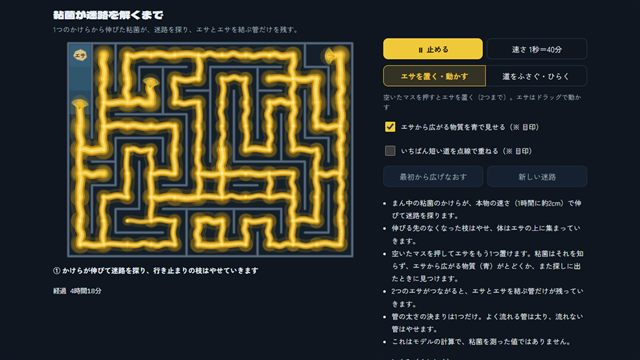
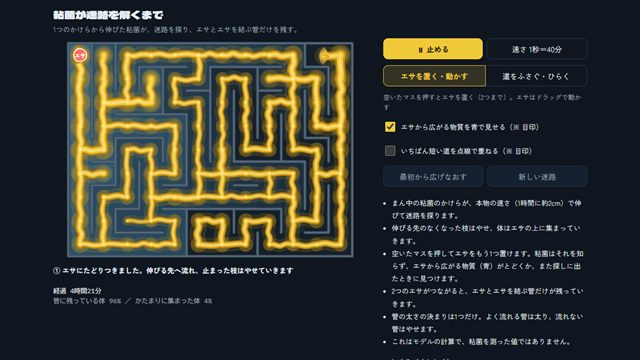
v009-lump 粘菌が迷路を解くまで: 体のかたまりがエサを動かしてもその場に残る、物質は100倍の演出で広がり少しずつ減る、エサは赤い丸の記号に

diff --git a/slime-maze/js/model.js b/slime-maze/js/model.js
@@ -20,6 +20,8 @@ const Model = {
   GROW_MM_H: 20,     // 先端の伸びる速さ（mm/時）。Patino-Ramirez ほか 2019「1時間に数センチ」から 2 cm/時
   GONE: 1e-2,        // これより細くなった管は消えて、その線から体が引きあげる（半径はもとの約3割。流れのない管は約4〜5時間でここまでやせる）
   DIFF_M2_S: 6.7e-10,  // ブドウ糖の水の中での拡散係数（m²/秒。教科書の値。寒天の中ではすこし遅い）
+  DECAY_LEN_MM: 30,  // 物質は少しずつ分解・吸収されて減る（仮定）。広がりと減りがつりあう長さ（エサから 30 mm で約 1/e。これがないと、長い時間で迷路じゅうが同じ濃さになって、向きが分からなくなる）
+  DIFF_BOOST: 100,   // 見やすくするため、物質は本物の100倍の速さで広げる（演出。2026-11-22 ユーザー「伸びる様子を眺めるアプリの本質とは関係ないので、特別にもっと早くていい」）
   C_TH: 0.01,        // 粘菌が気づく濃さ（エサの所を 1 とした割合）。本当の値は分からないので仮定
   CHEM_UP: 1.5, CHEM_DOWN: 0.5,   // 気づいた所では、濃いほうへの線は 1.5 倍の速さで伸び、うすいほうへは 0.5 倍（仮定）
   TRAIL_H: 24,       // 粘液の跡が残る時間（Reid ほか 2012: 一度探した所をさける）。どのくらい残るかは分からないので 1日と仮定
@@ -35,7 +37,8 @@ const Model = {
       cs: [new Float64Array(N), new Float64Array(N)],   // エサごとの、広がる物質の濃さ（エサの所 = 1）
       c: new Float64Array(N),        // 全部のエサの物質の和（絵のため）
       p: new Float64Array(N), pPrev: null,
-      t: 0, tFlow: 0, blocked: false, maxRate: 0, swap: false, start: -1, growing: false, mode: 'front', blob: [0, 0],
+      t: 0, tFlow: 0, blocked: false, maxRate: 0, swap: false, start: -1, growing: false, mode: 'front',
+      lump: new Float64Array(N),   // 点ごとの体のかたまり（管にならずに集まっている体の量。エサの上にできることが多いが、エサを動かしても、かたまりはその場に残る）
     };
   },
 
@@ -50,7 +53,7 @@ const Model = {
     const g = s.g;
     s.D.fill(0); s.Q.fill(0); s.Qs.fill(0); s.fa.fill(0); s.fb.fill(0); s.reached.fill(0); s.arrive.fill(0);
     s.trailT.fill(-1e9); s.c.fill(0); for (const f of s.cs) f.fill(0);
-    s.pPrev = null; s.t = 0; s.tFlow = 0; s.blocked = false; s.maxRate = 0; s.blob = [0, 0]; s.mode = 'front';
+    s.pPrev = null; s.t = 0; s.tFlow = 0; s.blocked = false; s.maxRate = 0; s.lump.fill(0); s.mode = 'front';
     for (let e = 0; e < g.nE; e++) s.vk[e] = 0.75 + 0.5 * s.rng();
     s.start = start; s.reached[start] = 1; s.growing = true;
   },
@@ -59,7 +62,7 @@ const Model = {
   //   線（通路）の網の上の有限体積の形: 点 i の体積 V_i = Σ 線の長さ/2（断面は共通なので省く）、線の流束 = Dc (c_b − c_a) / 長さ
   //   → 線の長さがそろっていない地図（道路）でも物質の量が保たれる。安定のため、必要なら1回を細かく分けて進める
   diffuse(s, dh) {
-    const g = s.g, Dc = Model.DIFF_M2_S * 3600 * 1e6;   // mm²/時
+    const g = s.g, Dc = Model.DIFF_M2_S * 3600 * 1e6 * Model.DIFF_BOOST;   // mm²/時（演出で速くしている）
     if (!s.dvol || s.dvolOpen !== Model.openSig(g)) {
       s.dvol = new Float64Array(g.N); let kmax = 0;
       const ksum = new Float64Array(g.N);
@@ -78,7 +81,8 @@ const Model = {
           const a = g.ea[e], b = g.eb[e], f = Dc * (c[b] - c[a]) / g.len[e] * dt;
           d[a] += f; d[b] -= f;
         }
-        for (let i = 0; i < g.N; i++) if (s.dvol[i] > 0) c[i] += d[i] / s.dvol[i];
+        const decay = Math.exp(-Dc / (Model.DECAY_LEN_MM * Model.DECAY_LEN_MM) * dt);   // 減る速さ λ = Dc / 長さ²
+        for (let i = 0; i < g.N; i++) if (s.dvol[i] > 0) c[i] = (c[i] + d[i] / s.dvol[i]) * decay;
         c[food] = 1;
       }
       for (let i = 0; i < g.N; i++) s.c[i] += c[i];
@@ -130,14 +134,20 @@ const Model = {
     for (let e = 0; e < g.nE; e++) if (s.D[e] > 0 || s.fa[e] > 0 || s.fb[e] > 0) s.trailT[e] = s.t;   // いまいる線に粘液が残る
     s.growing = any;
   },
-  toBlob(s, v) {   // 体をエサの上のかたまりへもどす（着いているエサが2つなら半分ずつ）
-    const ins = s.foods.map((f, i) => i).filter(i => s.reached[s.foods[i]]);
-    for (const i of ins) s.blob[i] = (s.blob[i] || 0) + v / ins.length;
+  // 体をかたまりへもどす: 粘菌がいるエサの上（2つなら半分ずつ）。エサの上にいなければ、いまあるかたまりへ（量に合わせて）
+  toBlob(s, v) {
+    const ins = s.foods.filter(f => s.reached[f]);
+    if (ins.length) { for (const f of ins) s.lump[f] += v / ins.length; return; }
+    const tot = Model.lumpTotal(s);
+    if (tot > 0) for (let i = 0; i < s.g.N; i++) if (s.lump[i] > 0) s.lump[i] += v * s.lump[i] / tot;
   },
+  // 伸びた管の体は、かたまりから出す（量に合わせて）
   takeBlob(s, v) {
-    const ins = s.foods.map((f, i) => i).filter(i => (s.blob[i] || 0) > 0);
-    for (const i of ins) s.blob[i] = Math.max(0, s.blob[i] - v / ins.length);
+    const tot = Model.lumpTotal(s); if (!(tot > 0)) return;
+    const k = Math.max(0, 1 - v / tot);
+    for (let i = 0; i < s.g.N; i++) s.lump[i] *= k;
   },
+  lumpTotal(s) { let a = 0; for (let i = 0; i < s.g.N; i++) a += s.lump[i]; return a; },
 
   // とても細くなった管は消え、体はその線から引きあげる。管も伸びかけもなくなった点には、もう粘菌はいない（エサの上のかたまりは残る）
   retract(s) {
@@ -146,7 +156,7 @@ const Model = {
     if (!gone) return;
     for (let c = 0; c < g.N; c++) {
       if (!s.reached[c]) continue;
-      let keep = s.foods.some((f, i) => f === c && (s.blob[i] || 0) > 0.05);
+      let keep = s.lump[c] > 0.05;   // かたまりがある点には、粘菌がいる
       for (const e of g.adj[c]) {
         if (keep) break;
         if (s.D[e] > 0 || (g.ea[e] === c && s.fa[e] > 0) || (g.eb[e] === c && s.fb[e] > 0)) keep = true;
@@ -186,7 +196,7 @@ const Model = {
     for (let i = 0; i < n; i++) { z[i] = r[i] / diag[i]; pv[i] = z[i]; }
     let rz = 0; for (let i = 0; i < n; i++) rz += r[i] * z[i];
     let r0 = 0; for (let i = 0; i < n; i++) r0 += rhs[i] * rhs[i] / diag[i];
-    for (let it = 0; it < 6 * n + 50 && rz > 1e-24 * r0; it++) {
+    for (let it = 0; it < 20 * n + 50 && rz > 1e-24 * r0; it++) {
       mul(pv, Ap); let pAp = 0; for (let i = 0; i < n; i++) pAp += pv[i] * Ap[i];
       if (!(pAp > 0)) break;
       const al = rz / pAp;
@@ -238,7 +248,9 @@ const Model = {
       if (!ok) { s.mode = 'none'; s.Q.fill(0); }   // つながっていなければ流れはない（管はやせていく）
     } else {
       s.blocked = false;
-      const fr = Model.fronts(s), src = foodsIn.length ? foodsIn[0] : s.start;
+      const fr = Model.fronts(s);
+      let src = foodsIn.length ? foodsIn[0] : s.start;   // 流れの入口: エサ。エサの上にいなければ、いちばん大きいかたまり
+      if (!foodsIn.length) { let best = 0; for (let i = 0; i < g.N; i++) if (s.lump[i] > best) { best = s.lump[i]; src = i; } }
       if (fr.length && Model.solve(s, src, fr, Model.I0)) { s.mode = 'front'; if (s.swap) for (let e = 0; e < g.nE; e++) s.Q[e] = -s.Q[e]; }
       else { s.mode = 'none'; s.Q.fill(0); }
     }
@@ -252,10 +264,10 @@ const Model = {
       s.D[e] = d1;
       s.Qs[e] += (Math.abs(s.Q[e]) - s.Qs[e]) * 0.1;    // 粒の速さ用に、ならした流量（表示だけ）
     }
-    // やせた管の体は、エサの上のかたまりへ（太った分はかたまりから）。エサに着く前は先端へ行ったとして数えない
-    if (foodsIn.length) {
+    // やせた管の体はかたまりへ（太った分はかたまりから）。エサにもかたまりにも着く前は、先端へ行ったとして数えない
+    if (foodsIn.length || Model.lumpTotal(s) > 0) {
       const dV = Model.volume(s) - V0;
-      s.foods.forEach((f, i) => { if (s.reached[f]) s.blob[i] = Math.max(0, (s.blob[i] || 0) - dV / foodsIn.length); });
+      if (dV < 0) Model.toBlob(s, -dV); else Model.takeBlob(s, dV);
     }
     s.maxRate = maxRate;
     Model.retract(s);

diff --git a/slime-maze/index.html b/slime-maze/index.html
@@ -57,7 +57,7 @@
         <p>迷路の実験では、まず迷路のあちこちに粘菌のかけらを置き、つながって迷路いっぱいになってから、入口と出口にエサを置きます。すると行き止まりや遠回りの管がやせて消え、2つのエサをいちばん短い道で結ぶ管が残りました（中垣ほか 2000）。迷路を「探して」解くのではなく、全部の道を同時に使ってから、使われない道を捨てています。</p>
         <p>粘菌は1時間に数センチの速さで伸びます（Patino-Ramirez ほか 2019）。管は数時間でこわれたり作り直されたりします（Tero ほか 2007）。</p>
         <p>エサにつながっていない、先の開いた管は消えやすく、体のほとんどはエサの上に集まります（Tero ほか 2007 にまとめられた観察）。伸びている先端の膜は、上流から流れを押しこまれてふくらみます（Le Verge-Serandour・Alim）。</p>
-        <p>粘菌は、自分が通ったあとの粘液をさけて、まだ探していない所へ伸びます（Reid ほか 2012）。ブドウ糖などの物質には、ある濃さ以上で寄っていきます（Ueda ほか 1975）。エサから出た物質は、寒天や水の中をゆっくり広がります（ブドウ糖の拡散係数で計算。2cm 先にとどくのに半日ほど）。そのため遠くのエサは、においより先に、探しに出て見つけることが多くなります。</p>
+        <p>粘菌は、自分が通ったあとの粘液をさけて、まだ探していない所へ伸びます（Reid ほか 2012）。ブドウ糖などの物質には、ある濃さ以上で寄っていきます（Ueda ほか 1975）。本物の物質は、寒天や水の中をとてもゆっくり広がります（ブドウ糖なら、2cm 先に少しとどくのに半日ほど）。このアプリでは、見やすくするため100倍の速さで広げています。</p>
         <p>管の太り・やせは、Tero・小林・中垣（2007）のモデルで計算しています。流れの入口と出口は次のように決めています。</p>
         <ul>
           <li>エサが1つで、まだ伸びている先端があるとき: エサ（着く前は、もとのかけら）から、伸びている先端へ等しく分かれて流れます（先端を出口にする方法は Almeida 2021 と同じ）。行き止まりで止まった枝には流れがなくなり、やせていきます。</li>
@@ -83,7 +83,7 @@
           <li>1マスを5mmと仮定しています（迷路は横6cm・たて4.5cm）。</li>
           <li>粘菌が気づく物質の濃さ（エサの所の1%）、気づいたときに濃いほうへ1.5倍・うすいほうへ0.5倍の速さで伸びること、粘液の跡が1日残ることは、本当の値が分からないので決めた仮定です。物質の広がり方は水の中のブドウ糖の値で、寒天ではすこし遅くなります。</li>
           <li>2つのエサにつながって食べているあいだは、前に探した所へはもう探しに出ないとしています（栄養のある所では探しに出るのがおそい、という観察 Patino-Ramirez ほか 2019 からの推定。本物は、少しずつ探しに出ることもあります）。</li>
-          <li>エサ（オートミール）から出る物質はブドウ糖だけではありません。ここでは代表としてブドウ糖の広がり方を使っています。広がるのがとても遅いので、遠くのエサは物質より先に、探しに出て見つかることが多くなります。</li>
+          <li>エサ（オートミール）から出る物質はブドウ糖だけではありません。ここでは代表としてブドウ糖の広がり方を使っています。本物は広がるのがとても遅いので、このアプリでは100倍の速さにしています（演出）。物質は少しずつ分解されて減り、エサから3cmほどで薄くなるとしています（仮定）。</li>
           <li>「先端へ等しく分かれて流れる」「やせた分の体がエサの上に集まる」は、上の観察と研究に合わせた推定です。体の量は管の断面（半径の2乗）× 長さで数えています。</li>
           <li>管の太り・やせの式の時間の単位を1時間としています（管が数時間で組みかわる、という観察から決めた仮定）。</li>
           <li>管が消える太さ（半径がもとの約3割）は、見やすさと「数時間で組みかわる」に合わせて決めた値です。道をふさぐと、残っている体からまた伸びて、別の道を探します。</li>
@@ -113,7 +113,7 @@
 
 <script src="js/maze.js?v=1"></script>
 <script src="js/graph.js?v=2"></script>
-<script src="js/model.js?v=11"></script>
-<script src="js/draw.js?v=10"></script>
-<script src="js/ui.js?v=10"></script>
+<script src="js/model.js?v=16"></script>
+<script src="js/draw.js?v=14"></script>
+<script src="js/ui.js?v=11"></script>
 <script src="js/main.js?v=5"></script>

diff --git a/slime-maze/js/draw.js b/slime-maze/js/draw.js
@@ -3,14 +3,15 @@
 //  - 管: 少し暗い黄土色の壁 ＋ 明るい黄色の中身 ＋ 中を流れる明るい芯。太さは半径 ∝ D^(1/4)（ポアズイユの D は半径の4乗）
 //  - 迷路の通路の中の管は、まっすぐでなく少しうねる（線ごとに決まった形。道路の地図では道どおりに描く）
 //  - 伸びている先端: 扇のように広がる薄い膜（ファン）＋ 中に細い筋（レビュー: 先端は薄い原形質のシートが流れでふくらむ）
-//  - エサの上: 集まった体のかたまり（量に合わせた大きさ、ふちは少しでこぼこ）
+//  - 体のかたまり: 管にならずに集まった体（量に合わせた大きさ、ふちは少しでこぼこ）。エサは記号（赤い丸）
 'use strict';
 
 const Draw = {
   C: {
     bg: '#0f1620', floor: '#151f29', wall: '#3d4d5e', wallTop: '#5b6f83',
     halo: 'rgba(214,160,20,0.16)', outer: '#b9820f', inner: '#f2c93a', core: 'rgba(255,241,176,0.55)', grain: 'rgba(255,248,214,0.9)',
-    food: '#d8c08c', foodDark: '#a98b55', foodInk: '#3a2410', mark: '#e8f0f4', sel: '#7fd3ff', chem: '95,180,230',
+    food: '#ff6f5c', foodRing: '#ffffff', foodInk: '#ffffff',   // エサは記号（粘菌の黄色・物質の青とまぎれない色）
+    mark: '#e8f0f4', sel: '#7fd3ff', chem: '95,180,230',
   },
 
   // 地図を画面に合わせて置く。P(i) で点の画面の位置、cs は「よくある線の長さ」の画面の長さ
@@ -71,8 +72,8 @@ const Draw = {
     // エサから広がる物質（※ 目印。色の濃さは対数。粘菌が気づく濃さより上は少し濃く）
     if (ui.showChem) {
       for (let i = 0; i < g.N; i++) {
-        const c = s.c[i]; if (c < 1e-4) continue;
-        const a = Math.min(1, Math.log10(c / 1e-4) / 4) * (c >= Model.C_TH ? 0.42 : 0.2);
+        const c = s.c[i]; if (c < 1e-3) continue;
+        const a = 0.05 + 0.4 * Math.min(1, Math.log10(c / 1e-3) / 3);   // 0.1% で薄く、気づく 1% で中くらい、エサの近くほど濃い
         const [x, y] = Draw.P(L, g, i);
         g2.fillStyle = `rgba(${C.chem},${a})`;
         if (g.maze) g2.fillRect(x - cs / 2, y - cs / 2, cs, cs); else { g2.beginPath(); g2.arc(x, y, cs * 0.5, 0, 6.283); g2.fill(); }
@@ -155,14 +156,17 @@ const Draw = {
       g2.stroke(); g2.setLineDash([]);
     }
 
-    // エサ（オートミールのかけら）と、その上に集まった体（エサを包むように半透明で重ねる。面積 ∝ 量）
+    // 集まった体のかたまり（エサの上なら、エサを包むように半透明で重ねる。エサを動かしても、かたまりはその場に残る。面積 ∝ 量）
+    for (let i = 0; i < g.N; i++) {
+      const bl = s.lump[i]; if (!(bl >= 0.05) || !s.reached[i]) continue;
+      const [x, y] = Draw.P(L, g, i), onFood = s.foods.includes(i);
+      g2.globalAlpha = onFood ? 0.82 : 1; Draw.blob(g2, x, y, cs * Math.min(0.62, 0.26 + 0.06 * Math.sqrt(bl)), Draw.hash(i + 11)); g2.globalAlpha = 1;
+    }
+    // エサ（記号。かたまりの上に描いて、いつも見えるように）と、選んでいる印
     s.foods.forEach((f, i) => {
-      const [x, y] = ui.drag && ui.drag.i === i ? Draw.P(L, g, ui.drag.c) : Draw.P(L, g, f), r = cs * 0.3;
-      Draw.oat(g2, x, y, r, Draw.hash(i * 13 + 5));
-      const bl = s.blob[i] || 0;
-      if (s.reached[f] && bl >= 0.05 && !(ui.drag && ui.drag.i === i)) {
-        g2.globalAlpha = 0.82; Draw.blob(g2, x, y, cs * Math.min(0.62, 0.26 + 0.06 * Math.sqrt(bl)), Draw.hash(f + 11)); g2.globalAlpha = 1;
-      }
+      const [x, y] = ui.drag && ui.drag.i === i ? Draw.P(L, g, ui.drag.c) : Draw.P(L, g, f), r = cs * 0.27;
+      g2.fillStyle = C.food; g2.strokeStyle = C.foodRing; g2.lineWidth = Math.max(1.5, cs * 0.04);
+      g2.beginPath(); g2.arc(x, y, r, 0, 6.283); g2.fill(); g2.stroke();
       if (ui.sel === i) { g2.strokeStyle = C.sel; g2.lineWidth = 3; g2.beginPath(); g2.arc(x, y, r * 1.35, 0, 6.283); g2.stroke(); }
       g2.fillStyle = C.foodInk; g2.font = `700 ${Math.max(9, Math.round(cs * 0.24))}px 'Zen Kaku Gothic New', sans-serif`;
       g2.textAlign = 'center'; g2.textBaseline = 'middle'; g2.fillText('エサ', x, y + 1);
@@ -200,14 +204,6 @@ const Draw = {
     const gr = g2.createRadialGradient(x - R * 0.2, y - R * 0.2, 0, x, y, R);
     gr.addColorStop(0, '#ffe680'); gr.addColorStop(1, C.inner);
     g2.fillStyle = gr; pathB(0.82); g2.fill();
-  },
-
-  // オートミールのかけら（ふちが少し角ばった、明るい黄土色の板）
-  oat(g2, x, y, r, h) {
-    const C = Draw.C, n = 7;
-    g2.beginPath();
-    for (let i = 0; i <= n; i++) { const a = i / n * 6.283 + (h % 10) * 0.1, rr = r * (0.85 + ((h >> (i * 2)) % 4) * 0.06); i ? g2.lineTo(x + Math.cos(a) * rr, y + Math.sin(a) * rr * 0.85) : g2.moveTo(x + Math.cos(a) * rr, y + Math.sin(a) * rr * 0.85); }
-    g2.closePath(); g2.fillStyle = C.food; g2.fill(); g2.strokeStyle = C.foodDark; g2.lineWidth = 1.2; g2.stroke();
   },
 
   // 迷路の壁

diff --git a/slime-maze/js/ui.js b/slime-maze/js/ui.js
@@ -15,7 +15,9 @@ const UI = {
     let phase;
     if (s.blocked) phase = 'エサとエサのあいだに通れる道がありません。壁をひらいてください';
     else if (one && s.growing) phase = s.reached[s.foods[0]] ? '① エサにたどりつきました。伸びる先へ流れ、止まった枝はやせていきます' : '① かけらが伸びて迷路を探り、行き止まりの枝はやせていきます';
-    else if (one) phase = Model.volume(s) > 0.5 ? '② 伸びる先がなくなり、体がエサの上に集まっていきます' : '② 体がエサの上に集まりました。粘液の跡がうすれると（1日と仮定）また探しに出ます';
+    else if (one) phase = Model.volume(s) > 0.5 ? (s.reached[s.foods[0]] ? '② 伸びる先がなくなり、体がエサの上に集まっていきます' : '② 伸びる先がなくなり、体がかたまりに集まっていきます')
+      : s.reached[s.foods[0]] ? '② 体がエサの上に集まりました。粘液の跡がうすれると（1日と仮定）また探しに出ます'
+      : '② 体はかたまりになって、その場にとどまっています。粘液の跡がうすれると（1日と仮定）探しに出ます';
     else if (!flowing) {
       const k = s.foods.findIndex(f => !s.reached[f]);
       let sense = false; for (let i = 0; k >= 0 && i < s.g.N; i++) if (s.reached[i] && s.cs[k][i] >= Model.C_TH) { sense = true; break; }
@@ -31,9 +33,9 @@ const UI = {
       const len = Model.tubeLength(s), spLen = S.ui.sp ? S.ui.sp.len : null, cm = v => (v / 10).toFixed(1);
       nums = `管の長さ ${cm(len)} cm ／ いちばん短い道 ${spLen != null ? cm(spLen) : '—'} cm`;
       if (settled && spLen != null && Math.abs(len - spLen) < 0.02 * spLen) good = 'いちばん短い道だけが残りました';
-    } else if (one && s.reached[s.foods[0]]) {
-      const V = Model.volume(s), b = s.blob[0] || 0;
-      nums = `管に残っている体 ${Math.round(100 * V / Math.max(1e-9, V + b))}% ／ エサの上に集まった体 ${Math.round(100 * b / Math.max(1e-9, V + b))}%`;
+    } else if (one && (s.reached[s.foods[0]] || Model.lumpTotal(s) > 0)) {
+      const V = Model.volume(s), b = Model.lumpTotal(s);
+      nums = `管に残っている体 ${Math.round(100 * V / Math.max(1e-9, V + b))}% ／ かたまりに集まった体 ${Math.round(100 * b / Math.max(1e-9, V + b))}%`;
     }
     const clock = `経過 ${UI.clock(s.t)}`;
     const key = phase + nums + good + clock + S.run + S.speedI + S.mode;

diff --git a/slime-maze/launcher.html b/slime-maze/launcher.html
@@ -41,7 +41,7 @@ td a{color:var(--ink)}
   </section>
   <section>
     <h2>すべてのバックアップ</h2>
-    <table><tr><td>v008-forage</td><td><a href="index.html">物質の拡散と粘液の跡でエサを見つける・点と線の地図・リアルな見た目（最新版）</a></td><td>2026-11-22</td></tr><tr><td>v007-regrow</td><td>細い管は消え、エサを置くと体から伸びなおす（Git: 6d4a4c9）</td><td>2026-11-22</td></tr><tr><td>v006-one-food-flow</td><td>エサ1つでも管が変わる（Git: 66eb310）</td><td>2026-11-22</td></tr><tr><td>v005-real-time</td><td>エサ1つから・止まらない・本物の時間で伸びる（Git: a2343dc）</td><td>2026-11-22</td></tr><tr><td>v004-one-piece</td><td>まん中の1つのかけらから広がる（Git: 62cea1f）</td><td>2026-11-22</td></tr><tr><td>v003-pieces</td><td>かけら6個から広がり、埋まってからエサ（Git: e40b787）</td><td>2026-11-22</td></tr><tr><td>v002-solver</td><td>段階A: 迷路と Physarum ソルバー（Git: dd3fb46）</td><td>2026-11-22</td></tr><tr><td>v001-start</td><td><a href="versions/v001-start/index.html">雛形（new-app.ps1）</a></td><td>2026-11-22</td></tr></table>
+    <table><tr><td>v009-lump</td><td><a href="index.html">体のかたまりがその場に残る・物質は速く広がり少しずつ減る・エサは記号（最新版）</a></td><td>2026-11-22</td></tr><tr><td>v008-forage</td><td>物質の拡散と粘液の跡・点と線の地図・リアルな見た目（Git: 4086d84）</td><td>2026-11-22</td></tr><tr><td>v007-regrow</td><td>細い管は消え、エサを置くと体から伸びなおす（Git: 6d4a4c9）</td><td>2026-11-22</td></tr><tr><td>v006-one-food-flow</td><td>エサ1つでも管が変わる（Git: 66eb310）</td><td>2026-11-22</td></tr><tr><td>v005-real-time</td><td>エサ1つから・止まらない・本物の時間で伸びる（Git: a2343dc）</td><td>2026-11-22</td></tr><tr><td>v004-one-piece</td><td>まん中の1つのかけらから広がる（Git: 62cea1f）</td><td>2026-11-22</td></tr><tr><td>v003-pieces</td><td>かけら6個から広がり、埋まってからエサ（Git: e40b787）</td><td>2026-11-22</td></tr><tr><td>v002-solver</td><td>段階A: 迷路と Physarum ソルバー（Git: dd3fb46）</td><td>2026-11-22</td></tr><tr><td>v001-start</td><td><a href="versions/v001-start/index.html">雛形（new-app.ps1）</a></td><td>2026-11-22</td></tr></table>
   </section>
 </main>
 </body>

diff --git a/slime-maze/tools/verify-one.js b/slime-maze/tools/verify-one.js
@@ -22,8 +22,8 @@ for (let seed = 1; seed <= 6; seed++) {
     if (tFull >= 0 && s.t > tFull + 10) break;
   }
   let alive = 0; for (let e = 0; e < g.nE; e++) if (Model.has(s, e)) alive++;
-  say(tFull > 0 && thinDuring > 0 && alive === 0 && s.blob[0] > 20,
-    `A seed ${seed}: 埋まるまで ${tFull.toFixed(1)} h、伸びるあいだに細い管 ${thinDuring > 0 ? 'あり' : 'なし'}、10時間後に残った管 ${alive}本、エサの上 ${s.blob[0].toFixed(1)}`);
+  say(tFull > 0 && thinDuring > 0 && alive === 0 && s.lump[0] > 20,
+    `A seed ${seed}: 埋まるまで ${tFull.toFixed(1)} h、伸びるあいだに細い管 ${thinDuring > 0 ? 'あり' : 'なし'}、10時間後に残った管 ${alive}本、エサの上 ${s.lump[0].toFixed(1)}`);
 }
 
 for (let seed = 1; seed <= 6; seed++) {
@@ -42,7 +42,7 @@ for (let seed = 1; seed <= 6; seed++) {
 { // C: 1本の線の列（まっすぐな通路）で、4マス先が 1% になる時間
   const m = Maze.make(W, 1, 1), g = Graph.fromMaze(m, CELL), s = Model.create(g, [0], 1);
   let t = 0; while (s.cs[0][4] < Model.C_TH && t < 200) { Model.diffuse(s, Model.DT); t += Model.DT; }
-  const Dc = Model.DIFF_M2_S * 3600 * 1e6, x = 4 * CELL, est = x * x / (13.2 * Dc);   // c = erfc(x / 2√(Dt)) = 0.01 → t = x² / (4·1.82² Dc)
-  say(t > est * 0.67 && t < est * 1.5, `C 物質が 20 mm 先で 1% になるまで ${t.toFixed(1)} h（式の見積もり ${est.toFixed(1)} h。マス目の計算なので 1.5 倍以内なら可）`);
+  const Dc = Model.DIFF_M2_S * 3600 * 1e6 * Model.DIFF_BOOST, x = 4 * CELL, est = x * x / (13.2 * Dc);   // c = erfc(x / 2√(Dt)) = 0.01 → t = x² / (4·1.82² Dc)
+  say(t > est * 0.67 && t < est * 1.5, `C 物質が 20 mm 先で 1% になるまで ${t.toFixed(2)} h（${Model.DIFF_BOOST}倍の演出つき）（式の見積もり ${est.toFixed(2)} h。マス目の計算なので 1.5 倍以内なら可）`);
 }
 process.exit(ng ? 1 : 0);

diff --git a/slime-maze/DEVNOTES.md b/slime-maze/DEVNOTES.md
@@ -1,7 +1,7 @@
 # 粘菌が迷路を解くまで 開発メモ
 
 ## 別セッションで続けるとき（まずここ）
-- いまの状態: v008-forage（段階A、動く試作）。保管庫（archive.html）に掲載。入口には載せない（RULES 8.1）。push はまだ。
+- いまの状態: v009-lump（段階A、動く試作）。保管庫（archive.html）に掲載。入口には載せない（RULES 8.1）。push はまだ。
 - 次にやること: ユーザーに見た目と、物質・粘液の跡の動きを確かめてもらう → 道路の地図（下の「点と線の地図」）か段階B（管に寄るズーム・μ のつまみ）。動くサムネイル（make-motion-thumbs.ps1 -Apps slime-maze）はまだ撮っていない。
 - 読む順: PLAN.md → このファイルの「ファイル構成」「しくみ」→ 関係するファイルだけ。
 - 動かし方: サーバー apps（.claude/launch.json）で http://localhost:8765/slime-maze/ 。デバッグ用の窓口 `window.__slma`（`simRun(秒)` … 描かずに進める、`restart()`・`newMaze(種)`・`addFood(点)`、`S`、`Model`・`Maze`）、エラーは `window.__slmaErr`。
@@ -38,6 +38,9 @@
 - 伸びる（`grow`）: 粘菌がいる点から、開いた線を連続して伸びる。速さ 2 cm/時（Patino-Ramirez ほか 2019）。線ごとに ±25% のばらつき（演出）。両はしから伸びた割合 fa + fb が 1 で管になり、はじめの D は [0.5, 1.0]。伸びた管の体はエサの上のかたまりから出す（`takeBlob`）。
 - 粘液の跡（`trailT`・`trail`）: 粘菌がいる線に時刻を記録し、`TRAIL_H`（24時間、仮定）のあいだ、まだ伸びはじめていない線へは出ていかない（Reid ほか 2012）。2つのエサにつながって食べているあいだ（`flowing`）は、跡がうすれても前に探した線へは出ていかない（Patino-Ramirez ほか 2019 の「栄養のある所では探しに出るのがおそい」からの推定。これがないと、探しに出た管が生えては消えをくり返し、落ち着かない）。壁をひらいた線は跡なし。
 - 物質（`cs[k]`・`diffuse`）: エサごとに、エサの所を 1 として開いた線を拡散（ブドウ糖の 6.7e-10 m²/s。線の網の有限体積の形: 点の体積 Σ長さ/2、流束 Dc Δc/長さ）。エサを置く・動かすとそのエサの物質は 0 から（`resetField`）。粘菌はまだ着いていないエサの物質が `C_TH`（1%、仮定）以上の所で気づき、濃いほうへの線は 1.5 倍、うすいほうへは 0.5 倍の速さ（仮定）。濃いほうへなら粘液の跡があっても伸びる（向こうにもう粘菌がいれば引きよせない）。拡散はとても遅い（20 mm 先で 1% まで約 10時間）ので、遠くのエサはまず、跡がうすれて探しに出たときに見つかる。エサを置いたことを合図に探しはじめる形（v007）はやめた（2026-11-22 ユーザー「エサを置いた瞬間に伸び始めるのは現実も一緒？」→ 1・2 を選んだ）。
+- 体のかたまり（`s.lump[点]`、2026-11-22 ユーザー「エサを動かすと粘菌が一切見えなくなる。塊になってとどまっているならそう魅せて」）: やせた管の体は、粘菌がいるエサの上へ（いなければ、いまあるかたまりへ）。かたまりはエサから切りはなした点ごとの量で、エサを動かしてもその場に残る（`toBlob`・`takeBlob`・`lumpTotal`）。かたまりのある点には粘菌がいる（`retract`）。エサの上にいないときの流れの入口は、いちばん大きいかたまり。
+- 物質の演出（2026-11-22 ユーザー「エサから広がる物質は特別にもっと早くていい。伸びる様子を眺めるアプリの本質とは関係ないので」）: `DIFF_BOOST` = 100 倍。さらに少しずつ減る（`DECAY_LEN_MM` = 30 mm、λ = Dc/長さ²、仮定）。減りがないと、長い時間で迷路じゅうが同じ濃さになり、向きが分からなくなった。
+- エサは赤い丸の記号（2026-11-22 ユーザー「エサと粘菌の色はかえたほうがいい」「エサは記号でいい」「リアルにしたいのは粘菌のほう」）。
 - 流れ方は3とおり（`s.mode`、`Model.step`）:
   - `front`: エサが1つ以下で、伸びてよい先端がある → 入口（エサ。着く前はもとのかけら）から先端の点（`fronts`）へ I0 を等しく分けて流す（Almeida 2021 の3.6.1。先端の膜が流れでふくらむ: Le Verge-Serandour & Alim）。行き止まりで止まった枝はやせる。
   - `none`: 伸びる先がなく、エサも1つ → 流れなし、管はすべて e^(−t) でやせる。やせた体（Σ L√D の減った分）はエサの上のかたまり `s.blob` へ（Tero 2007「体のほとんどがエサの上に集まる」）。
@@ -77,3 +80,4 @@
 - 2026-11-22 v006-one-food-flow: エサが1つでも管が変わるように（伸びる先端へ流れ、止まった枝はやせる／伸びきったら体がエサの上に集まる）。はじめの速さを1秒＝40分に。出どころに Le Verge-Serandour & Alim・Almeida 2021。verify 40/40、verify-one 10/10。
 - 2026-11-22 v007-regrow: 細くなった管（D<0.01）は消えて体が引きあげ、エサを置く・動かす・壁をいじると、残っている体から本物の速さで伸びなおす（2つ目のエサまで一瞬で道ができない）。体が集まりきったときの文。verify 40/40、verify-one 20/20。
 - 2026-11-22 v008-forage: エサを置いた合図で探しはじめるのをやめ、物質の拡散（エサごと）と走化性・粘液の跡（1日）でエサを見つける形に。地図を点と線の Graph に（道路の地図に備える。長さは mm、画面は cm）。見た目をリアルに（管4層・うねり・先端の扇・かたまり・オートミール・壁の板・物質の青）。verify 40/40、verify-one NG なし。
+- 2026-11-22 v009-lump: 体のかたまりを点ごとに（エサを動かしてもその場に残る）、物質を100倍の演出＋少しずつ減る形に、エサを赤い丸の記号に、管の解き方のくり返しの上限を上げた。verify 40/40、verify-one NG なし。
